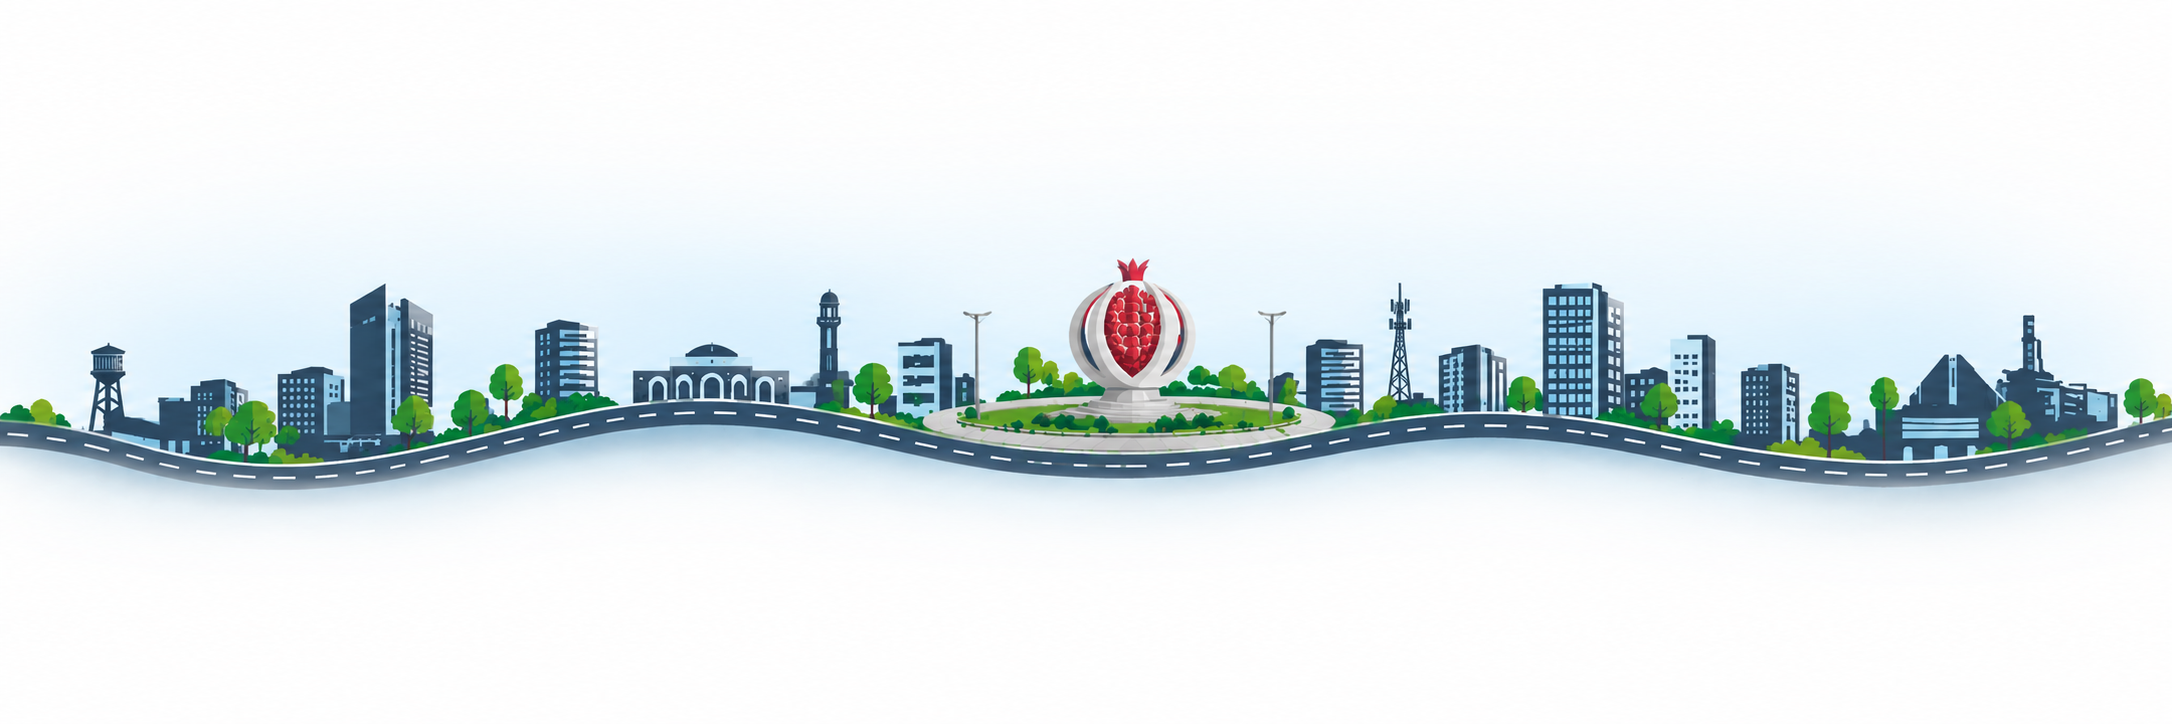
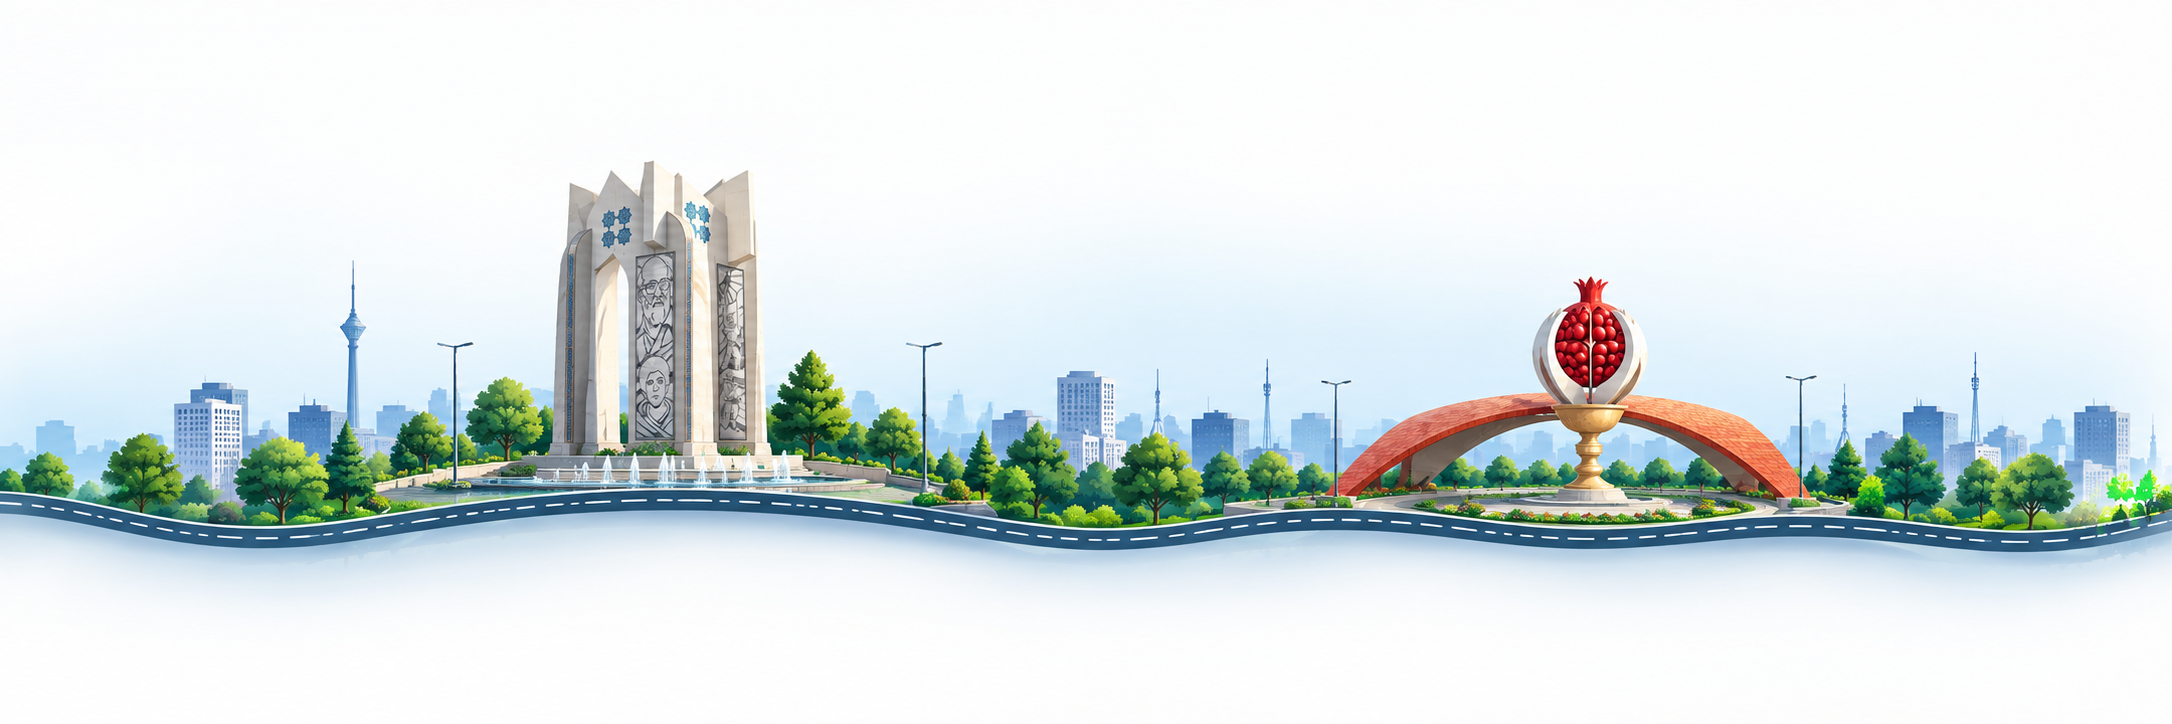
office 10.10.2026

Changed region(s): [[0.0, 0.2127, 1.0, 0.8204]]

diff --git a/home.html b/home.html
@@ -841,13 +841,47 @@
     </section>
     <!-- city image -->
    </main>
-   <footer class="footer">
+   <footer class="footer shadow-lg py-3">
     <div class="container">
         <div class="footer-wrapper">
             <div class="row">
-                <div class="col-md-4"></div>
-                <div class="col-md-4"></div>
-                <div class="col-md-4"></div>
+                <div class="col-md-3">
+                    <div class="city-info d-flex flex-column justify-content-center">
+                        <img class="img-fluid" src="resources/images/site_logo.png" alt="">
+                        <div class="city-slogan mt-2">
+                            با فرهنگ، همدلی و پویایی، در مسیر ساختن شهری شاداب و بانشاط
+                            ساوهای سرزنده، با شهروندانی آگاه، خلاق و تندرست
+                        </div>
+                        <div class="city-contact mt-2 d-flex flex-column gap-2">
+                            <div class="address d-flex align-content-center">
+                                <i class="bi bi-geo-alt"></i>
+                                <span>ساوه، میدان شهرداری، ساختمان شهرداری</span>
+                            </div>
+                            <div class="phone d-flex align-content-center">
+                                <i class="bi bi-telephone-inbound-fill"></i>
+                                <span>086-43345678</span>
+                            </div>
+                            <div class="mail d-flex align-content-center">
+                                <i class="bi bi-envelope-at"></i>
+                                <span>info@saveh.ir</span>
+                            </div>
+                        </div>
+                        <div class="city-social d-flex justify-content-end align-items-center gap-2">
+                            <a href="#" class="social-item">
+                                <i class="bi bi-telegram"></i>
+                            </a>
+                            <a href="#" class="social-item">
+                                <i class="bi bi-instagram"></i>
+                            </a>
+                            <a href="#" class="social-item">
+                                <i class="bi bi-whatsapp"></i>
+                            </a>
+                        </div>
+                    </div>
+                </div>
+                <div class="col-md-3"></div>
+                <div class="col-md-3"></div>
+                <div class="col-md-3"></div>
             </div>
         </div>
     </div>

diff --git a/resources/css/style.css b/resources/css/style.css
@@ -563,3 +563,17 @@ nav.navbar {
     object-fit: cover;
 }
 /* city image */
+
+/* footer */
+.footer {
+    background-color: #051934;
+    color: #cae1f5;
+    border-top-right-radius: 80px;
+    border-top-left-radius: 80px;
+}
+
+.city-slogan {
+    font-size: 16px;
+    text-align: justify;
+}
+/* footer */
